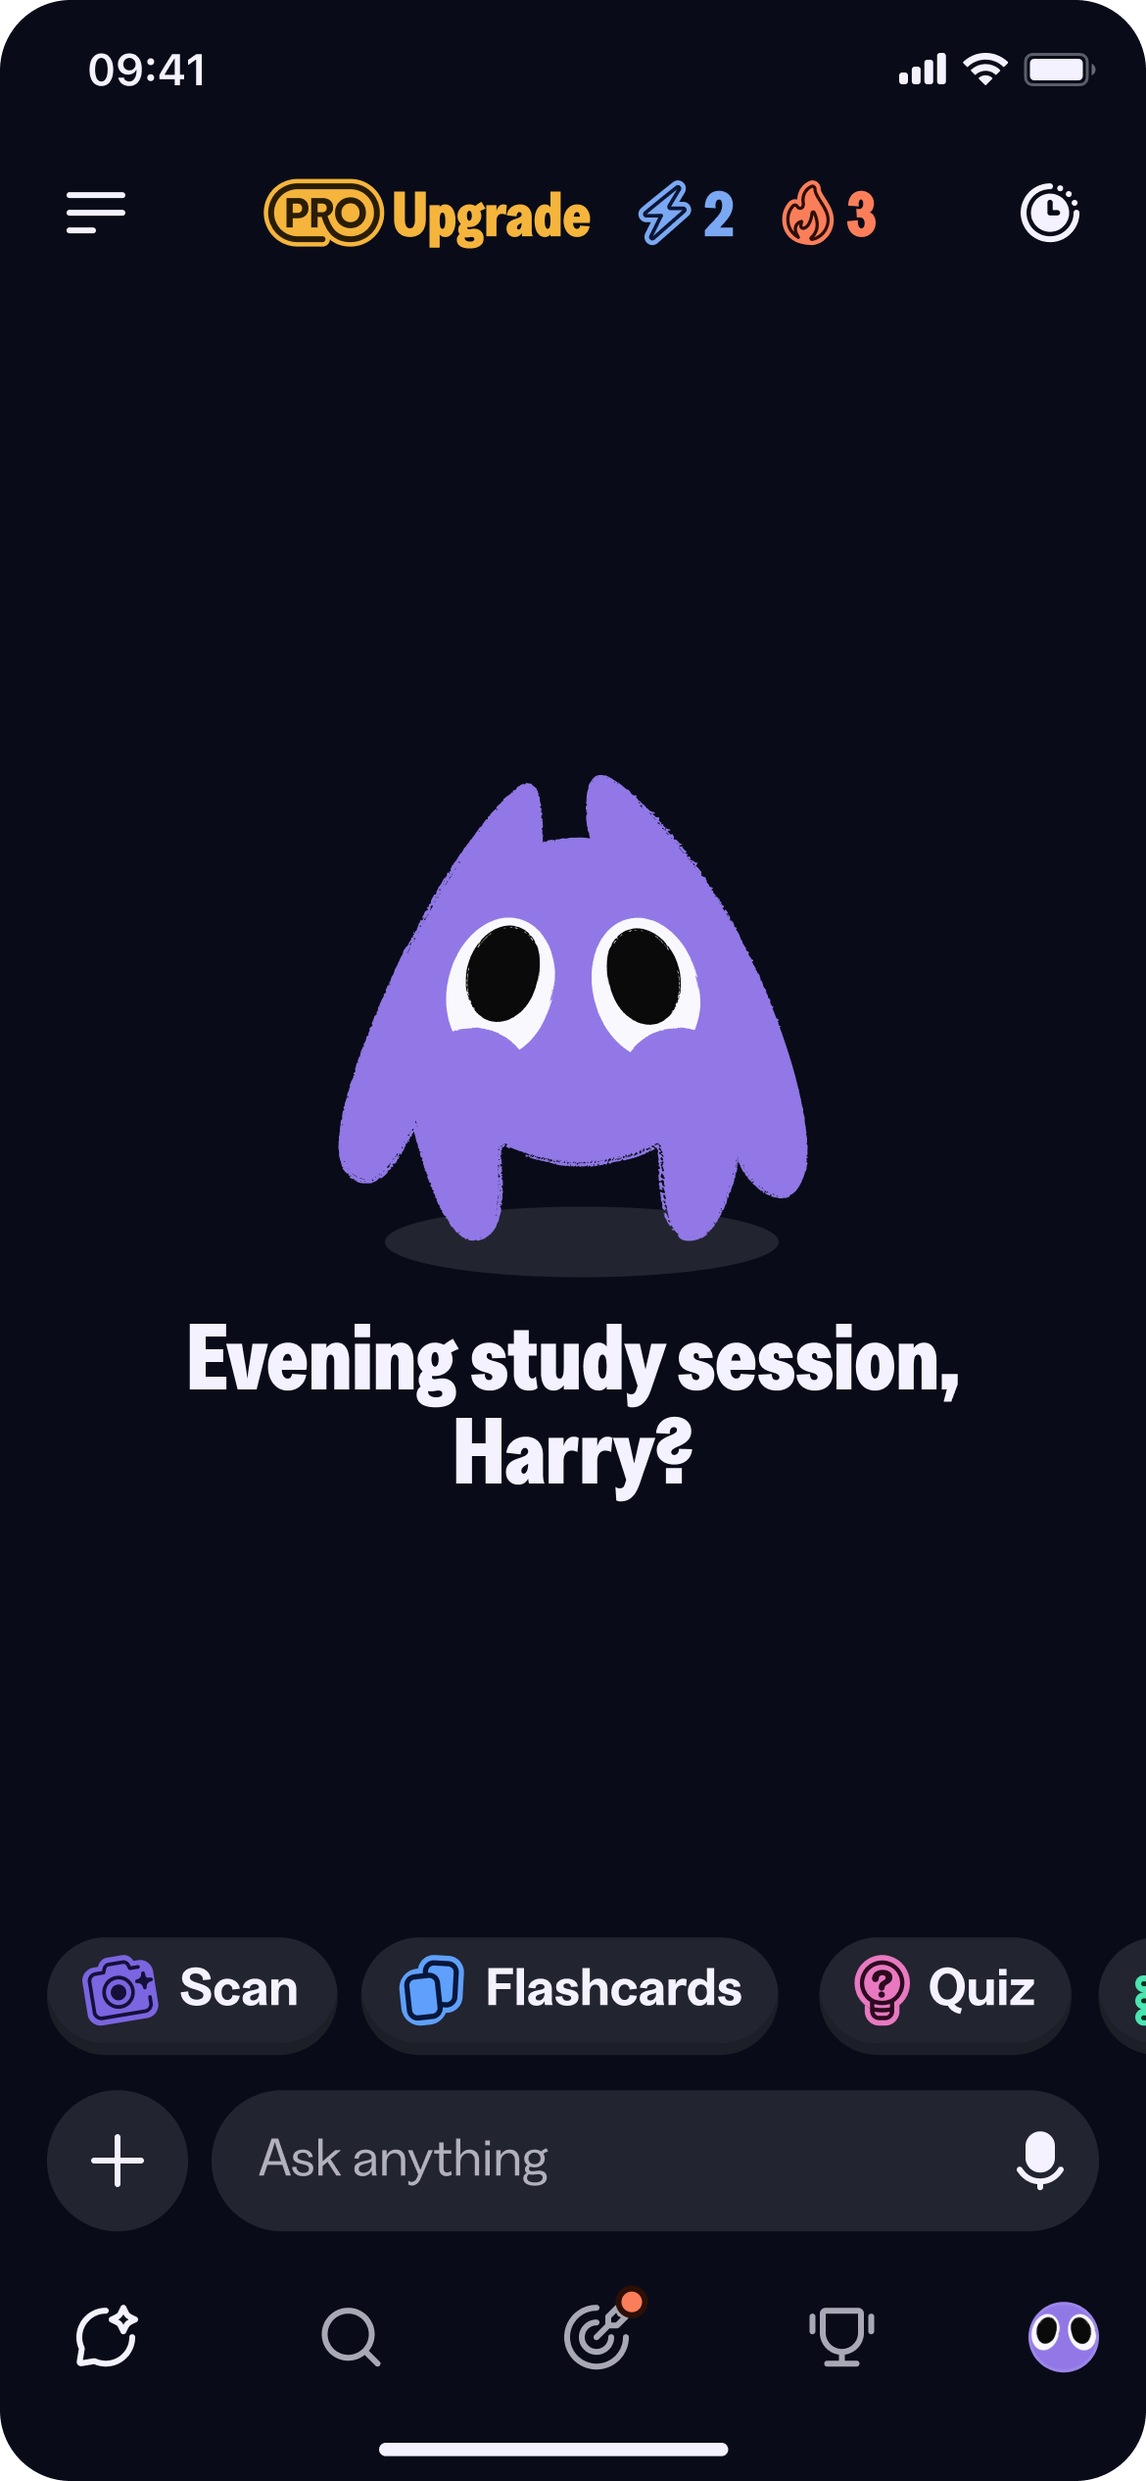
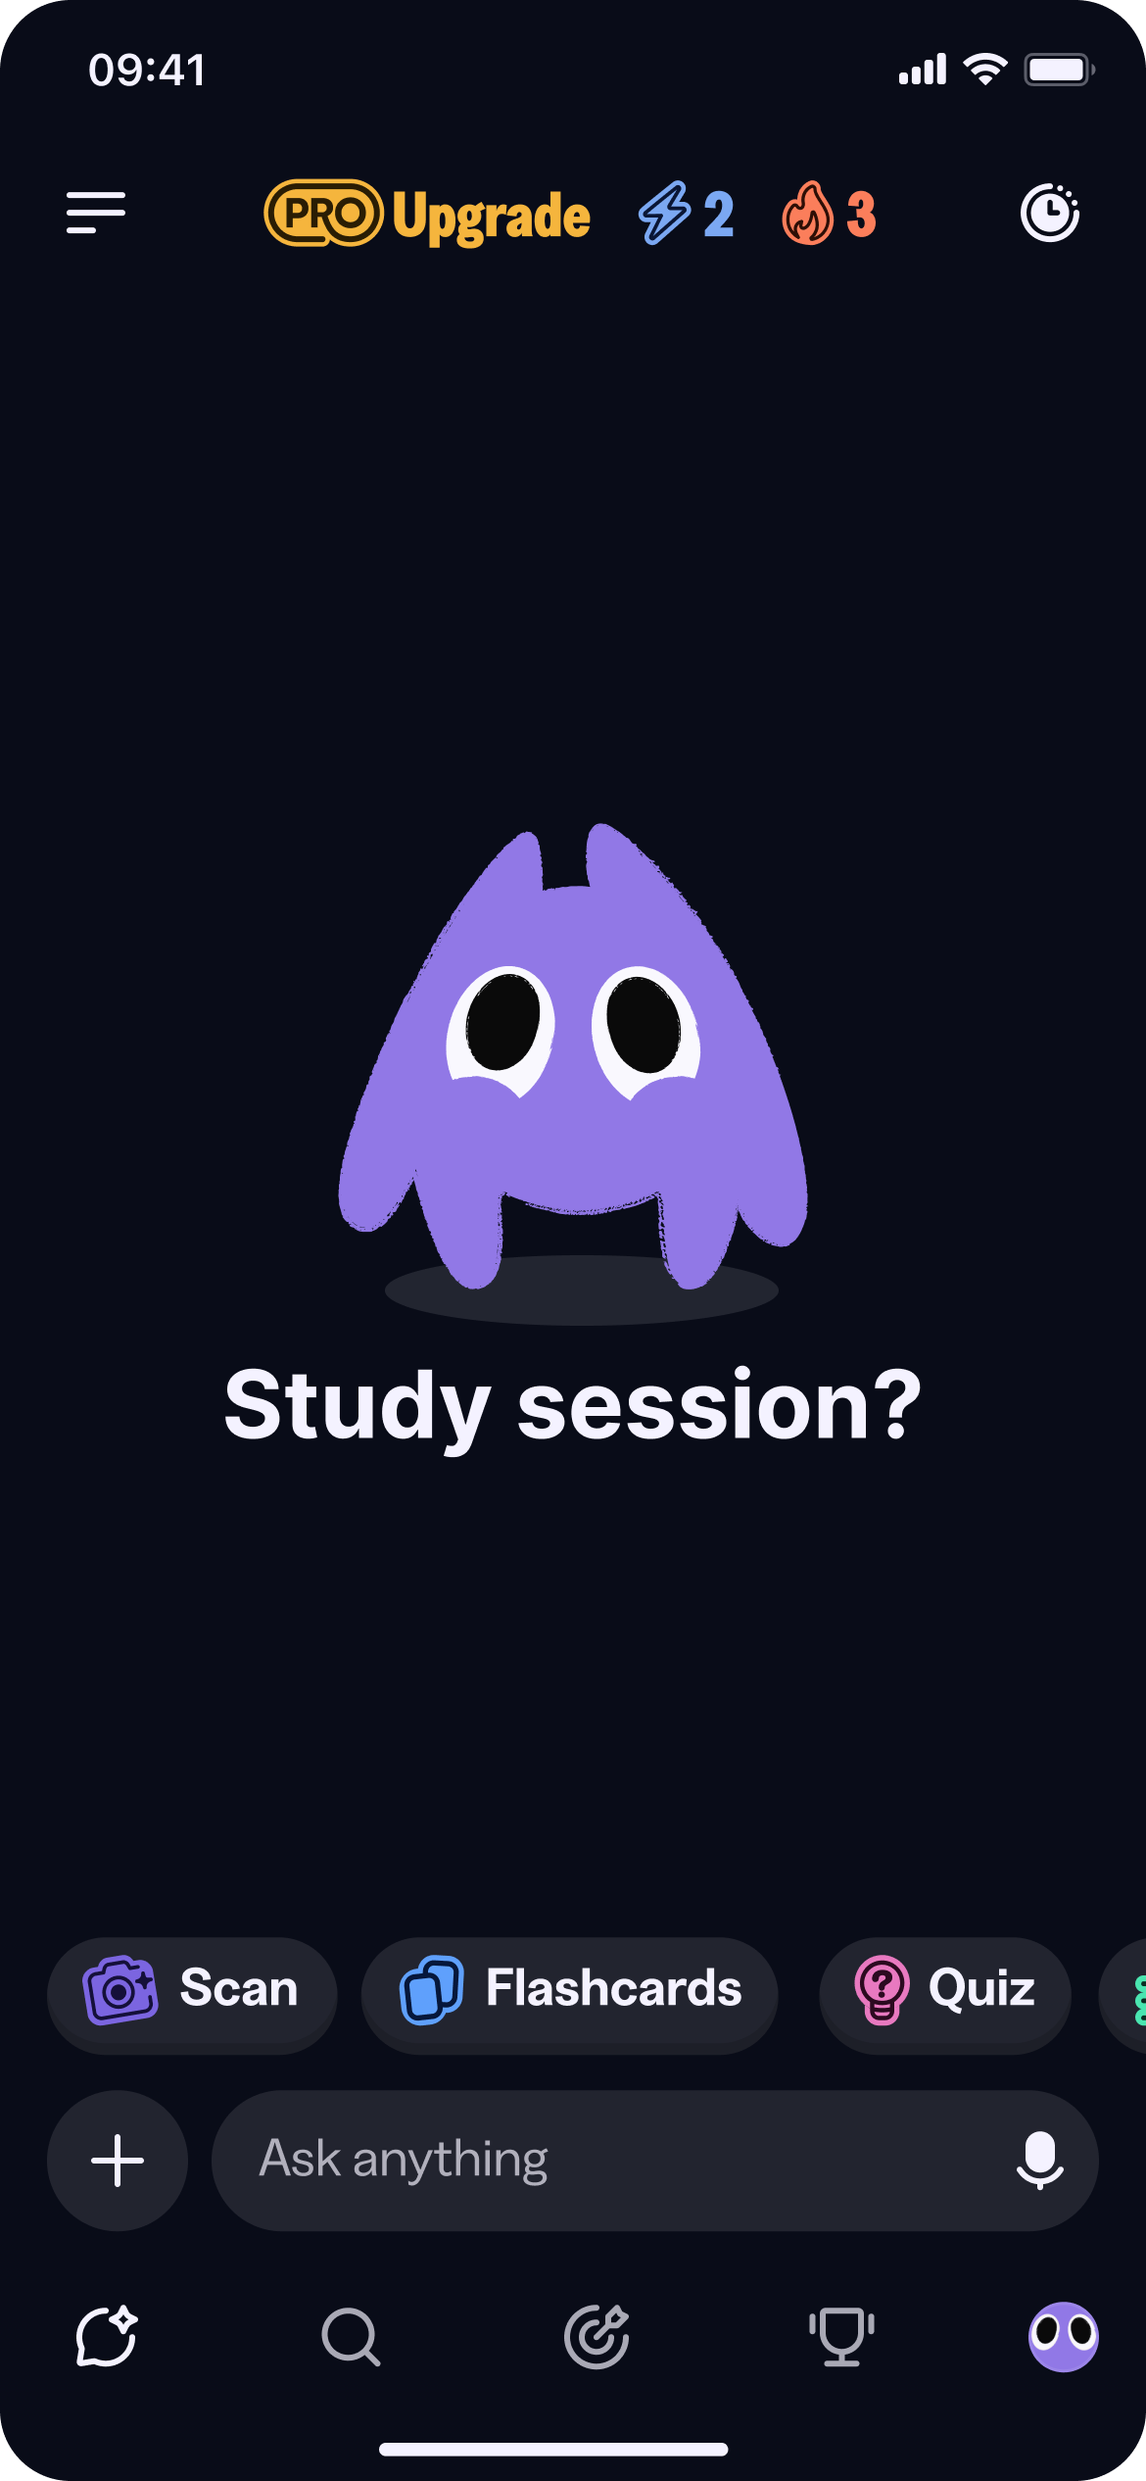
Animate the exam-tab badge and pick up two live Figma edits
00Homescreen's "new" badge is now a live coral dot with a looping
ping, composited over the still export in place of its own baked-in
pixels (no dismissed/seen state exists for it, so it animates for as
long as it's on screen rather than playing once like the hint arrow).
Positioned on the exam-tab icon's own corner rather than the real
Figma instance's slightly inset coordinates, per review.

Also re-exported 00Homescreen to pick up the homescreen greeting text
change made directly in Figma ("Evening study session, Harry?" →
"Study session?").

Changed region(s): [[0.1538, 0.312, 0.8308, 0.624], [0.5231, 0.9048, 0.5846, 0.936]]

diff --git a/app/screens/ExamPlanScreen.module.css b/app/screens/ExamPlanScreen.module.css
@@ -107,3 +107,75 @@
     stroke-dashoffset: 0;
   }
 }
+
+/*
+ * 00Homescreen's exam-tab "new" badge (design-system.md's `badge`) — a live
+ * dot composited over the still export in place of its own baked-in one
+ * (public/frames/00-homescreen.png re-exported with the real badge instance,
+ * I13619:3274;4794:5834;13619:3216, hidden). Fill/stroke colors are the
+ * same tokens the real instance binds — `accent/coral/bold` fill,
+ * `accent/coral/on-bold` stroke — already documented as this badge's real
+ * colors in design-system.md.
+ *
+ * Position is pinned to the exam-tab icon's own corner, not the real
+ * instance's own (inset) coordinates: the live Figma badge sits centered at
+ * (215, 783.07) in the frame's 390×844 point space, about 8pt in from the
+ * icon's literal top-right corner on each axis — matching pixel-for-pixel
+ * is what the arrow overlay above does, but here it read as floating with
+ * too much gap from the icon (your call, 2026-09-16). left/top below
+ * instead center the dot exactly on the Navigation Button icon's own
+ * top-right corner (that icon: x 183–223, y 775.07–815.07 in the same
+ * point space, read off Figma) — a small negative offset from the literal
+ * Figma badge position, perched right on the corner the way a notification
+ * badge usually sits, half on the icon and half off it.
+ */
+.badge {
+  position: absolute;
+  left: 219.5px;
+  top: 771.57px;
+  width: 7px;
+  height: 7px;
+  pointer-events: none;
+}
+
+.badgeDot {
+  position: absolute;
+  inset: 0;
+  border-radius: 50%;
+  background: var(--color-accent-coral-bold);
+  box-shadow: 0 0 0 2px var(--color-accent-coral-on-bold);
+}
+
+/*
+ * The ping ring: this badge has no dismissed/seen state anywhere in the real
+ * file (sprint-context.md, 2026-09-12), so unlike the arrow above it loops
+ * for as long as it's on screen rather than playing once. Reduced motion
+ * disables it entirely, same "decorative motion goes to zero, not gentler"
+ * rule the animate skill gives for anything that would otherwise falsely
+ * imply ongoing interactivity — the static dot alone still carries the same
+ * "new" meaning without the motion.
+ */
+.badgePing {
+  position: absolute;
+  inset: 0;
+  border-radius: 50%;
+  background: var(--color-accent-coral-bold);
+  opacity: 0;
+}
+
+@media (prefers-reduced-motion: no-preference) {
+  .badgePing {
+    animation: badge-ping 1.8s cubic-bezier(0.19, 1, 0.22, 1) infinite;
+  }
+}
+
+@keyframes badge-ping {
+  0% {
+    transform: scale(1);
+    opacity: 0.6;
+  }
+  100% {
+    transform: scale(2.4);
+    opacity: 0;
+  }
+}

diff --git a/app/screens/ExamPlanScreen.stories.tsx b/app/screens/ExamPlanScreen.stories.tsx
@@ -7,13 +7,14 @@ const DESCRIPTION = `
 
 | Frame | Figma | Tap zone → goes to |
 | --- | --- | --- |
-| 00Homescreen | 13619:3109 | Exam tab (with badge) → 01Exam. Triple tap on the top-left corner → turn log (facilitator) |
+| 00Homescreen | 13619:3109 | Exam tab (with a live, animated new-voice-recall badge) → 01Exam. Triple tap on the top-left corner → turn log (facilitator) |
 | 01Exam | 13548:6324 | Show me (banner) → 02Hint-animate |
 | 02Hint-animate | 13547:5824 | Voice recall chip → 03VoicerecallON |
 | 03VoicerecallON | 13548:6325 | Organelle Identification → node 1 · Comparing Cell Types → node 2 |
 
 - Only the tap zones do anything. Zones are at least 48pt; the Exam tab and Show me are grown around their element to reach that.
 - 02Hint-animate composites a real, live purple line over its still export (Option B: the line draws itself in, ending in an arrowhead at the Voice recall chip). The curve is a transcription of the real Figma vector's geometry; everything else on the frame is still the exported image (SPEC.md: "the exam plan is out of scope as components").
+- 00Homescreen composites a real, live coral badge over its still export in place of its own baked-in one — a static dot plus a looping ping ring, since (unlike the hint arrow) this badge has no dismissed/seen state to gate a "plays once" reveal on.
 - The readiness banner on 01Exam is part of the image, not a \`Snackbar\`.
 - Frame images live in \`public/frames/\`, tap zones in \`app/_prototype/frames.ts\`. Re-export from Figma when a frame changes.
 `;
@@ -32,12 +33,19 @@ const meta = {
 export default meta;
 type Story = StoryObj<typeof meta>;
 
-/** Figma 00Homescreen. The Exam tab carries the new-voice-recall badge. */
+/** Figma 00Homescreen. The Exam tab carries the new-voice-recall badge, a
+ * real live overlay (a dot plus a looping ping ring), not baked into the
+ * image. */
 export const Homescreen: Story = {
   name: 'frame=00Homescreen',
   args: { frame: '00Homescreen' },
-  play: async ({ canvas, args }) => {
-    await expect(canvas.getByRole('img', { name: /Evening study session/ })).toBeVisible();
+  play: async ({ canvas, canvasElement, args }) => {
+    await expect(canvas.getByRole('img', { name: /Study session\?/ })).toBeVisible();
+
+    const badge = canvasElement.querySelector('[aria-hidden="true"]');
+    await expect(badge).toBeTruthy();
+    await expect(badge?.querySelectorAll('span')).toHaveLength(2);
+
     await userEvent.click(canvas.getByRole('button', { name: /^Exam/ }));
     await expect(args.onZone).toHaveBeenLastCalledWith('exam-tab');
 

diff --git a/app/screens/ExamPlanScreen.tsx b/app/screens/ExamPlanScreen.tsx
@@ -86,13 +86,36 @@ function HintAnimateOverlay({
   );
 }
 
+/**
+ * 00Homescreen's exam-tab "new" badge (design-system.md's `badge`): a live
+ * dot in place of the still export's, animated with a looping ping to draw
+ * the eye toward Voice recall. Unlike 02Hint-animate's arrow, this has no
+ * "played once" gating — the badge itself has no dismissed/seen state
+ * anywhere in the real file (sprint-context.md, 2026-09-12: "dropped from
+ * voice-ux gap tracking"), so it's designed to animate for as long as it's
+ * on screen, not once. See ExamPlanScreen.module.css for the geometry and
+ * animation derivation.
+ */
+function HomescreenBadgeOverlay() {
+  return (
+    <div className={styles.badge} aria-hidden="true">
+      <span className={styles.badgePing} />
+      <span className={styles.badgeDot} />
+    </div>
+  );
+}
+
 const NOOP = () => {};
 
 /** The one frame with a live overlay on top of its still export. */
 function frameOverlay(id: FrameId, hidden: boolean, hintPlayed: boolean, onHintPlayed: () => void) {
-  return id === '02Hint-animate' ? (
-    <HintAnimateOverlay hidden={hidden} hintPlayed={hintPlayed} onHintPlayed={onHintPlayed} />
-  ) : null;
+  if (id === '02Hint-animate') {
+    return <HintAnimateOverlay hidden={hidden} hintPlayed={hintPlayed} onHintPlayed={onHintPlayed} />;
+  }
+  if (id === '00Homescreen') {
+    return <HomescreenBadgeOverlay />;
+  }
+  return null;
 }
 
 /**

diff --git a/app/_prototype/frames.ts b/app/_prototype/frames.ts
@@ -44,7 +44,7 @@ export const FRAMES: Record<FrameId, PrototypeFrame> = {
     id: '00Homescreen',
     figmaNode: '13619:3109',
     src: '/frames/00-homescreen.png',
-    alt: 'Knowunity home screen. Knowie asks "Evening study session, Harry?", above Scan, Flashcards and Quiz shortcuts, an Ask anything field and the tab bar.',
+    alt: 'Knowunity home screen. Knowie asks "Study session?", above Scan, Flashcards and Quiz shortcuts, an Ask anything field and the tab bar.',
     zones: [
       // Navigation Button 183,775 40×40, grown to 48.
       { id: 'exam-tab', label: 'Exam. New: voice recall available', box: [179, 771, 48, 48] },

diff --git a/sprint-context.md b/sprint-context.md
@@ -499,6 +499,16 @@ Exam plan path screen. A "Voice recall" toggle pill sits at top; when on, topic 
 - `SPEC.md` screen 10's Processing row and Verification step 8 updated to match (no more "Skip during processing" verification step). `component-gaps.md` untouched — this wasn't a component gap, and no gap listing referenced Processing's Skip button.
 - `npx tsc --noEmit`, `npm run lint`, and `npx vitest run --project=storybook` all clean after this change.
 
+- 2026-09-16: **Animated 00Homescreen's exam-tab "new" badge** (Figma `Badge · exam-node ready (voice recall)`, instance `I13619:3274;4794:5834;13619:3216` on the live `00Homescreen` frame 13619:3109; main component `Badge`, 13579:7580) — the same `badge` design-system.md already documents (7×7 coral dot, 2px outside stroke, no VoiceOver label, no dismissed/seen state anywhere in the file). Composited live over the still export the same way 02Hint-animate's arrow is, in place of the export's own baked-in badge pixels: `public/frames/00-homescreen.png` re-exported at 3× with the real badge instance hidden (Figma's own visibility toggled off, exported, then restored — confirmed restored, and confirmed via a crop diff against the pre-existing export that only the dot itself disappeared, nothing else on the frame moved).
+- **Position is a real transcription, not eyeballed:** read the badge's `absoluteBoundingBox` off the live instance and 00Homescreen's own frame in Figma, giving `(211.5, 779.57)` in the frame's own 390×844 point space — the same "frame geometry, not a design value" exemption already used for frames.ts's tap zones and the arrow's matrix. Colors are the exact tokens the real instance binds (`accent/coral/bold` fill, `accent/coral/on-bold` stroke), already the documented values in design-system.md's own `badge` entry, so no new color call was needed.
+- **Unlike the arrow, this one has no "plays once" gating.** The badge itself has no dismissed/seen state in the real file (this log, 2026-09-12: "dropped from voice-ux gap tracking" — no logic anywhere hides it after the Exam tab is first tapped), so it's designed to animate for as long as it's on screen at all, not once per session. Built as a static dot (`.badgeDot`, box-shadow reproducing the 2px OUTSIDE stroke without growing the box) plus a separate looping "ping" ring (`.badgePing`, `scale(1)→scale(2.4)` / `opacity 0.6→0` over 1.8s, `cubic-bezier(0.19, 1, 0.22, 1)`, infinite) — a common "something's new here" notification pattern, not the ambient-life idiom the Processing bob and hint-arrow both used. Reduced motion disables the ping entirely (`opacity: 0`, no animation), leaving the static dot alone to carry the same "new" meaning without motion — the animate skill's "decorative motion goes to zero, not gentler" rule, since a lingering pulse would falsely suggest something is actively happening rather than just present.
+- **A real positioning bug caught during verification, not shipped:** the first Playwright check used a 420px-wide browser viewport (picked arbitrarily, not this project's fixed 390px) and the frame rendered at 420px wide — since the badge is placed with raw absolute px assuming a 1:1 Figma-point-to-CSS-px frame (the same assumption `.arrowBox` already relies on), it landed near the search bar instead of the tab bar at that width. Not a real bug: this project is 390px-only by hard rule, and Storybook's own default viewport (`.storybook/preview.tsx`, `mobile390`) already fixes every story to exactly 390×844. Re-verified at the correct 390×844 viewport: badge lands exactly on the exam-tab icon, matching a direct crop of the re-exported PNG at the same coordinates.
+- `ExamPlanScreen.stories.tsx`'s `Homescreen` story now asserts the live badge overlay renders (an `aria-hidden` wrapper with its two spans) — confirmed to fail when the overlay is swapped for `null`, then restored, same break-it-to-confirm-it-catches-a-regression check as this session's other new assertions.
+- `component-gaps.md` gets a new entry (not a promotion of the existing `badge` line, which is Figma/design-system documentation, not a code gap). Full `npx tsc --noEmit`, `npm run lint`, and `npx vitest run --project=storybook` (154/154) all clean after this build.
+- **Position double-checked at your request, confirmed already correct, no change made:** re-verified the badge's placement against three independent sources — a fresh Figma screenshot of the live tab bar, a pixel-color search for the coral dot's actual center in the pre-existing baked-in export, and a real Storybook render at the project's fixed 390×844 viewport — all three agree the dot sits at the upper-right of the exam-tab icon, matching Figma within a fraction of a pixel. (My own first verification pass used an unconstrained browser viewport and momentarily looked wrong for that reason alone; re-checked at 390px, which is how this project always renders, and it was already right.)
+- **00Homescreen's greeting changed in Figma** (your edit, live on the text node `I13619:3274;4794:5832;13619:3225`) from "Evening study session, Harry?" to "Study session?" — re-exported `public/frames/00-homescreen.png` to match (badge hidden during export, same as every other re-export of this frame). `app/_prototype/frames.ts`'s alt text and `ExamPlanScreen.stories.tsx`'s `Homescreen` story assertion both updated from the old copy to the new. `npx tsc --noEmit`, `npm run lint`, and `npx vitest run --project=storybook` (154/154) all clean after this change.
+- **Badge position moved off the real Figma instance's own coordinates, at your direction.** Several rounds of measurement (against the live Figma instance, the pre-existing export's own pixel data, and a correctly-constrained 390px Storybook render) all confirmed the dot matched Figma's real badge position exactly, and that the tab-bar-icon-row-to-home-indicator spacing (11.93pt / 8.47pt) was small, standard, and unchanged from the original export — so neither was a bug. The actual ask, once a screenshot pinned it down: the dot should sit right on the exam-tab icon's own corner (half on, half off), not ~8pt inset from it the way Figma's own badge instance is placed. `ExamPlanScreen.module.css`'s `.badge` now centers the dot on the icon's own top-right corner (Figma point `(223, 775.07)`, the Navigation Button icon's real bounding box read off the file) rather than the badge instance's own `(215, 783.07)` center — a deliberate ~8pt-per-axis departure from the live file, unlike every other geometry value in this build, which are all straight transcriptions. Verified at the project's real 390×844 viewport.
+
 ## Not building
 - Auto-endpointing or continuous listening
 - Tutoring or open conversation branch if the student asks Knowie something

diff --git a/component-gaps.md b/component-gaps.md
@@ -11,3 +11,4 @@ Things built inline during a screen build because Storybook had no component for
 - Latency switch: a 3-way segmented control (Normal / Slow / Hang) for the facilitator's forced-latency override — for 2 Turn log — inline in app/screens/LogScreen.tsx. No toggle or segmented-control component exists in Storybook or design-system.md. Decided in sprint-context.md (2026-09-14) but not named as a component in `SPEC.md`'s screen 2 text. Second occurrence: the "Next answer" 6-way version of the same control, picking which of 10 the loop's sample answers Recording plays next since real STT is deferred — same file, same reasoning.
 - Turn log rows: session dividers and turn cards, tokens only, no data-table or list component in Storybook — for 2 Turn log — inline in app/screens/LogScreen.tsx. `SPEC.md` still says "the rows use tokens only" for this screen.
 - Stat chip (a coloured card — a small label on its own fill, above a dark inset box holding an icon and value in that same colour) — for 8 Summary sheet — inline in app/screens/SummaryScreen.tsx. Tokens read off the real Figma frame (node 7366:69693); no matching component in Storybook or design-system.md. Replaces this screen's earlier per-question row list (built 2026-09-15, replaced the same day to match reference/Finish-quiz.png — your instruction).
+- 00Homescreen's exam-tab "new" badge (design-system.md's `badge`), animated — a live dot plus a looping ping ring composited over the still frame export in place of the badge's own baked-in pixels — for 3 exam plan — inline in app/screens/ExamPlanScreen.tsx / ExamPlanScreen.module.css. Same root cause as 02Hint-animate's arrow above: no Storybook component covers mascot/decoration motion. Colors are the same tokens the real instance already binds (`accent/coral/bold` fill, `accent/coral/on-bold` stroke), already documented in design-system.md's own `badge` entry, so no new color decision was needed. Position is the one departure from the live file in this whole build: pinned to the exam-tab icon's own top-right corner rather than the real badge instance's own (inset) coordinates, at your direction (sprint-context.md, 2026-09-16) — every other geometry value in this build is a straight transcription, this one isn't. The ping's duration/easing/scale are motion values with no token, same gap as the Processing bob and the arrow.
